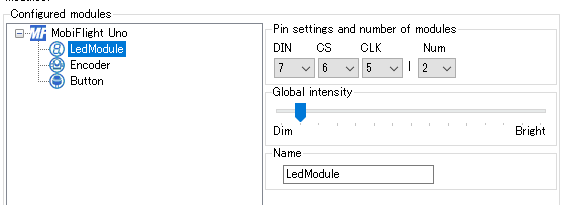
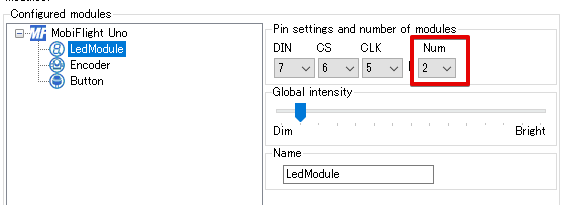
推敲

Changed region(s): [[0.7234, 0.1463, 0.844, 0.439]]

diff --git a/books/mobiflight-msfs2020-build-controller/radio-panel.md b/books/mobiflight-msfs2020-build-controller/radio-panel.md
@@ -2,8 +2,10 @@
 title: "【実践編】無線周波数操作パネルを作る"
 ---
 # 本チャプターの内容
-いよいよ今まで１つづつ試してきた要素をまとめて１つの機能として実装します。
-今回は航空無線に使用される周波数を操作するパネルを作ります。
+いよいよ今まで１つずつ習得してきた要素をまとめて１つの機能として実装します。
+今回は航空管制無線に使用される周波数を操作するパネルを作ります。
+### 完成イメージ
+https://www.youtube.com/watch?v=y3pY7OdbyVE
 
 # 準備するもの
 - [Arduino UNO R3](https://akizukidenshi.com/catalog/g/gM-07385/)
@@ -52,31 +54,71 @@ I/O部品をパネルに取り付けます。
 
 回路図に従ってどんどん結線をしていきます。このときにケーブルの色を5V(Vcc)は赤、GNDは黒、信号線は白に色分けをするとわかりやすいです。もっと複雑になったら白を細分化して色分けしてもいいかもしれません。
 ![](/images/mobiflight-msfs2020-build-controller/radio-panel/assem4.png)
-I/Oの部品が付いたパネルをフレームに取り付け、Arduino UNO用のユニバーサル基板にピンヘッダをハンダ付けしてケーブルを接続していきます。
+I/Oの部品が付いたパネルをフレームに取り付け、Arduino UNO用のユニバーサル基板にケーブルを接続していきます。
+このユニバーサル基板は[一般的なユニバーサル基板](https://akizukidenshi.com/catalog/g/gP-03230/)に比べて割高なのですが、一般的なユニバーサル基板だとArduino UNOのピンのピッチ(穴の間隔)と合わない場合があるので、とても重宝しています。
 ![](/images/mobiflight-msfs2020-build-controller/radio-panel/assem5.png)
-それぞれの接点は密集しているので熱収縮チューブでカバーしておきます。
+それぞれの接点は密集しているのでピンヘッダをハンダ付けしてそこにケーブルを接続して熱収縮チューブでカバーしておきます。
 ![](/images/mobiflight-msfs2020-build-controller/radio-panel/assem6.png)
 
 ケーブルをまとめます。熱収縮チューブを使ってまとめていく方法もありますが、その方法だと最初からケーブルを熱収縮チューブに通して置かないといけないので、マスキングテープや結束バンドで最後にまとめるほうが簡単です。
 ![](/images/mobiflight-msfs2020-build-controller/radio-panel/assem7.png)
 
-サイドパネルやフェイルパネル・ノブを取り付けて完成です！
+サイドパネルやフェイスパネル、ノブを取り付けて完成です！
 ![](/images/mobiflight-msfs2020-build-controller/radio-panel/assem8.png)
 
 
 # MobiFlightの設定
-基本的には今まで学習してきた設定の組み合わせなので一部省略して書いています。
+基本的には今まで学習してきた設定の組み合わせなので一部省略して記載しています。
 ### デバイスの設定
+ボードにはデバイスを３つ登録します。
+- 7セグメントLED（デイジーチェーンで1つのデバイスで２つのLEDモジュールを使用します）
+- ロータリーエンコーダー
+- ボタン
+![](/images/mobiflight-msfs2020-build-controller/radio-panel/1.png)
+7セグメントLEDの設定です。ピンは実際の接続の通りに設定します。デイジーチェーンを使用して２つの7セグメントLEDを使用するので`Num`を`2`に設定します。
+その他のデバイスは実際の接続のピン通りに設定をするだけです。
+![](/images/mobiflight-msfs2020-build-controller/radio-panel/2.png)
+![](/images/mobiflight-msfs2020-build-controller/radio-panel/3.png)
+![](/images/mobiflight-msfs2020-build-controller/radio-panel/4.png)
+設定が完了したら忘れずにボードへアップロードをしましょう。
 ### フライトシミュレーターとデバイスのマッピング
+最初に出力マッピングから作成します。必要な出力は以下の２つのマッピングです。
+- Active：現在のアクティブな無線周波数を表示する7セグメントLED
+- Standby：スタンバイ無線周波数を表示する7セグメントLED
+![](/images/mobiflight-msfs2020-build-controller/radio-panel/101.png)
+**Activeの設定**
+![](/images/mobiflight-msfs2020-build-controller/radio-panel/102.png)
+![](/images/mobiflight-msfs2020-build-controller/radio-panel/103.png)
+**Standbyの設定**
+![](/images/mobiflight-msfs2020-build-controller/radio-panel/104.png)
+![](/images/mobiflight-msfs2020-build-controller/radio-panel/105.png)
+
+次に入力マッピングを作成します。必要な入力は以下の２つのマッピングです。
+- Freq：スタンバイ無線周波数を変更するロータリーエンコーダー
+- Swap：スタンバイとアクティブの無線周波数を入れ替えるボタン
+![](/images/mobiflight-msfs2020-build-controller/radio-panel/106.png)
+**Freqの設定**
+![](/images/mobiflight-msfs2020-build-controller/radio-panel/107.png)
+![](/images/mobiflight-msfs2020-build-controller/radio-panel/108.png)
+**Swapの設定**
+![](/images/mobiflight-msfs2020-build-controller/radio-panel/109.png)
 
 # 実行
-ではいつもどおりMSFS2020を起動後にMobiFlight Connectorの`Run`ボタンで接続してフリーフライトで試してみましょう。
+1. MSFS2020を起動します。
+1. すべてのマッピングのActiveにチェックが入っていることを確認し、MobiFlight Connectorの`Run`ボタンをクリックして接続を開始します。
+![](/images/mobiflight-msfs2020-build-controller/radio-panel/201.png)
+1. MSFS2020で適当なフリーフライトを開始します。
+1. 実際に作成したコントローラーとMSFS2020内の無線パネルが連動して動作することを確認します。
+
 https://www.youtube.com/watch?v=y3pY7OdbyVE
 
 # まとめ
-というわけで今まで１つづつ試してきた要素をまとめて１機能として実装してみました！
-実際に作ってみて以下のような改善点を感じました。
+前半で１つずつ習得してきた要素を組み合わせて１つの機能として実装してみました！
+このように作成した１機能ごとのコントローラーを並べることでホームコックピットを構成していきます。
+次はオートパイロットのパネルを作ろうかなと思っています。
+
 ### 改善点
+今回、実際に作ってみて以下のような改善点を感じました。
 - 周波数変更のノブがkHzノブしか無い【致命的】
   MHz変更できないと意味ないやんけ...
   本物はノブが２重になっていてMHzとkHzを変更できるようなちょっと複雑な機構なので今後はそれをやってみたいと思います。
@@ -85,10 +127,3 @@ https://www.youtube.com/watch?v=y3pY7OdbyVE
   もっと軽いものを選ぶか、パネルに取り付けることができるタクトスイッチがあればそれにすると良いでしょう。
 - 本物の航空機の配置とは違う
   これは一長一短ですね。リアルな配置では無いと言えばネガティブですが、自分の好きな配置やスペースに合わせて作れるという点では利点になると思います。
-
-
-次はオートパイロットのパネルを作ろうかなと思っています。
-
-
-
-

diff --git a/books/mobiflight-msfs2020-build-controller/postscript.md b/books/mobiflight-msfs2020-build-controller/postscript.md
@@ -4,8 +4,8 @@ title: "あとがき"
 
 # これから追加予定のチャプター
 本書の発行時点では未執筆ですが、今後追加を予定しているチャプターのリストです。
-- 対気速度をステッピングモーターで出力する
-- 対気速度をLCDで出力する
+- ステッピングモーターの出力
+- LCDの出力
 - Tips集
 
 # あとがき
